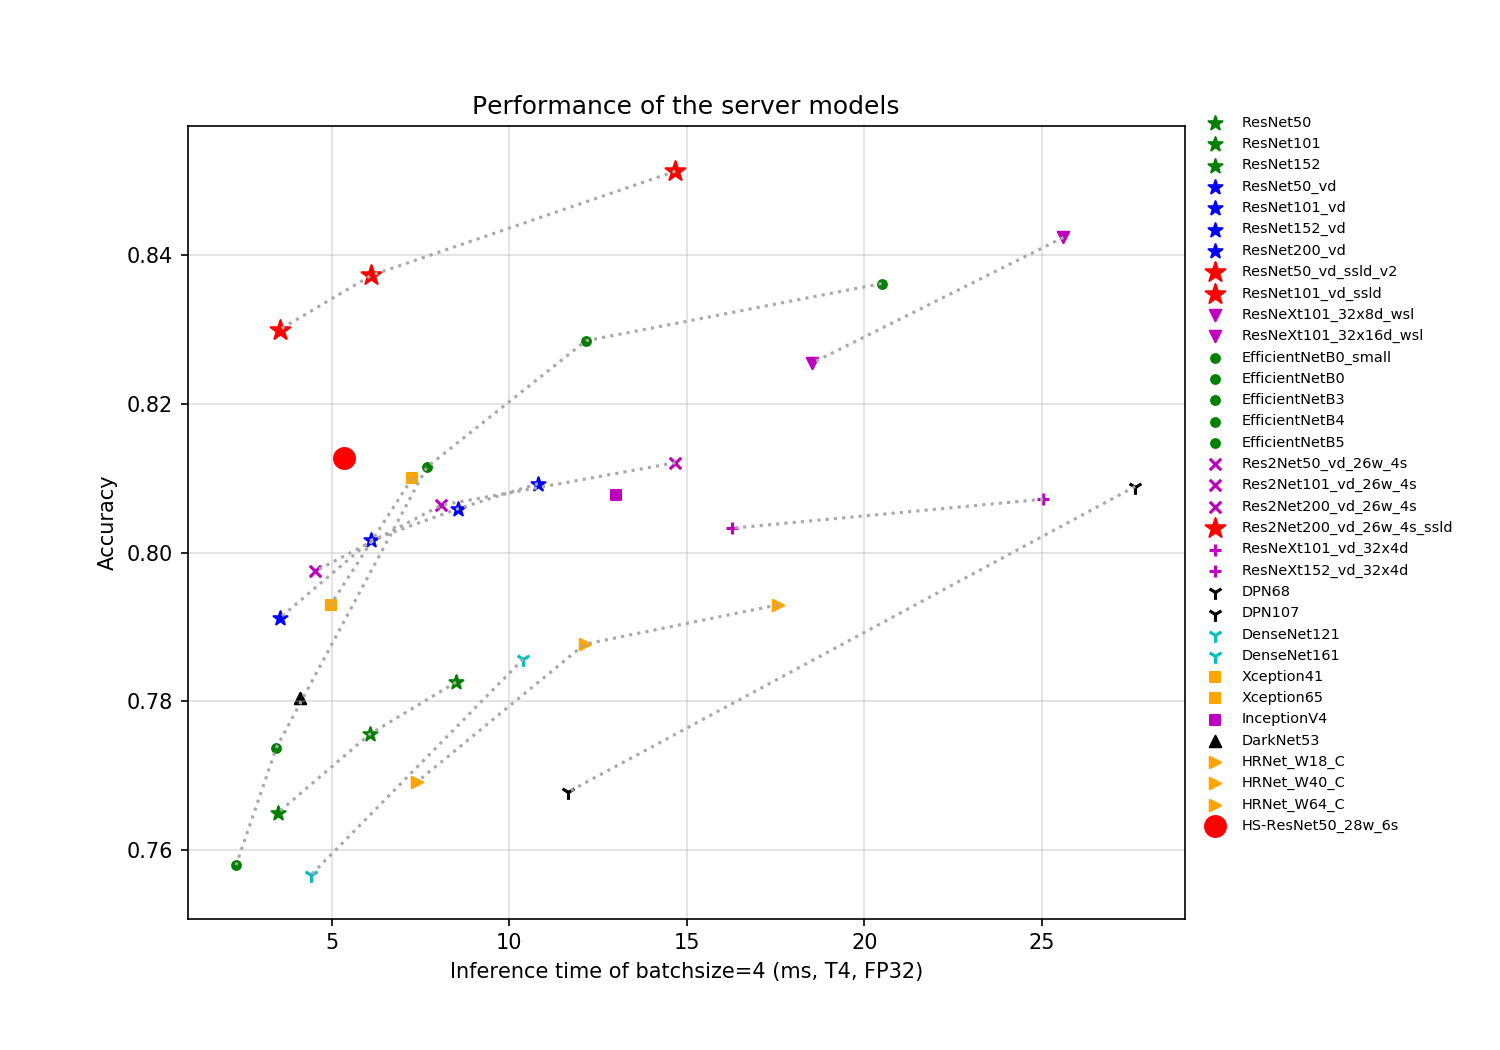
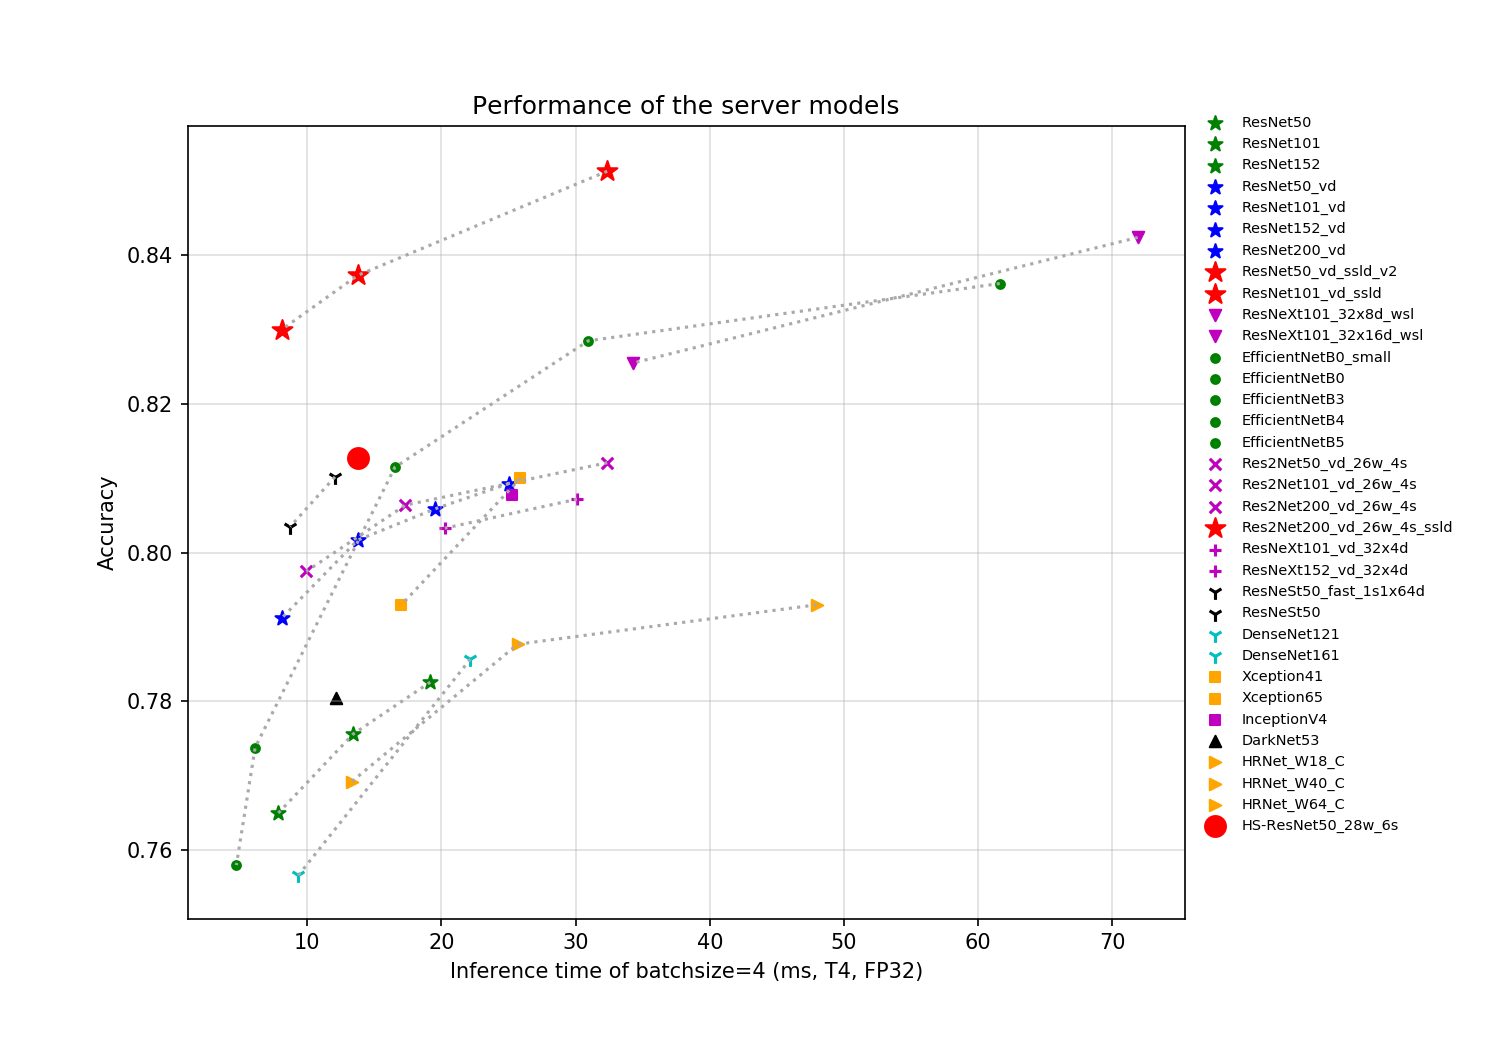
fix readme png

diff --git a/README.md b/README.md
@@ -88,7 +88,7 @@ Based on the ImageNet-1k classification dataset, the 24 classification network s
 
 Curves of accuracy to the inference time of common server-side models are shown as follows.
 
-![](./docs/images/models/T4_benchmark/t4.fp32.bs4.main_fps_top1.png)
+![](./docs/images/models/T4_benchmark/t4.fp32.bs1.main_fps_top1.png)
 
 
 Curves of accuracy to the inference time and storage size of common mobile-side models are shown as follows.

diff --git a/README_cn.md b/README_cn.md
@@ -88,7 +88,7 @@
 
 常见服务器端模型的精度指标与其预测耗时的变化曲线如下图所示。
 
-![](./docs/images/models/T4_benchmark/t4.fp32.bs4.main_fps_top1.png)
+![](./docs/images/models/T4_benchmark/t4.fp32.bs1.main_fps_top1.png)
 
 
 常见移动端模型的精度指标与其预测耗时、模型存储大小的变化曲线如下图所示。
